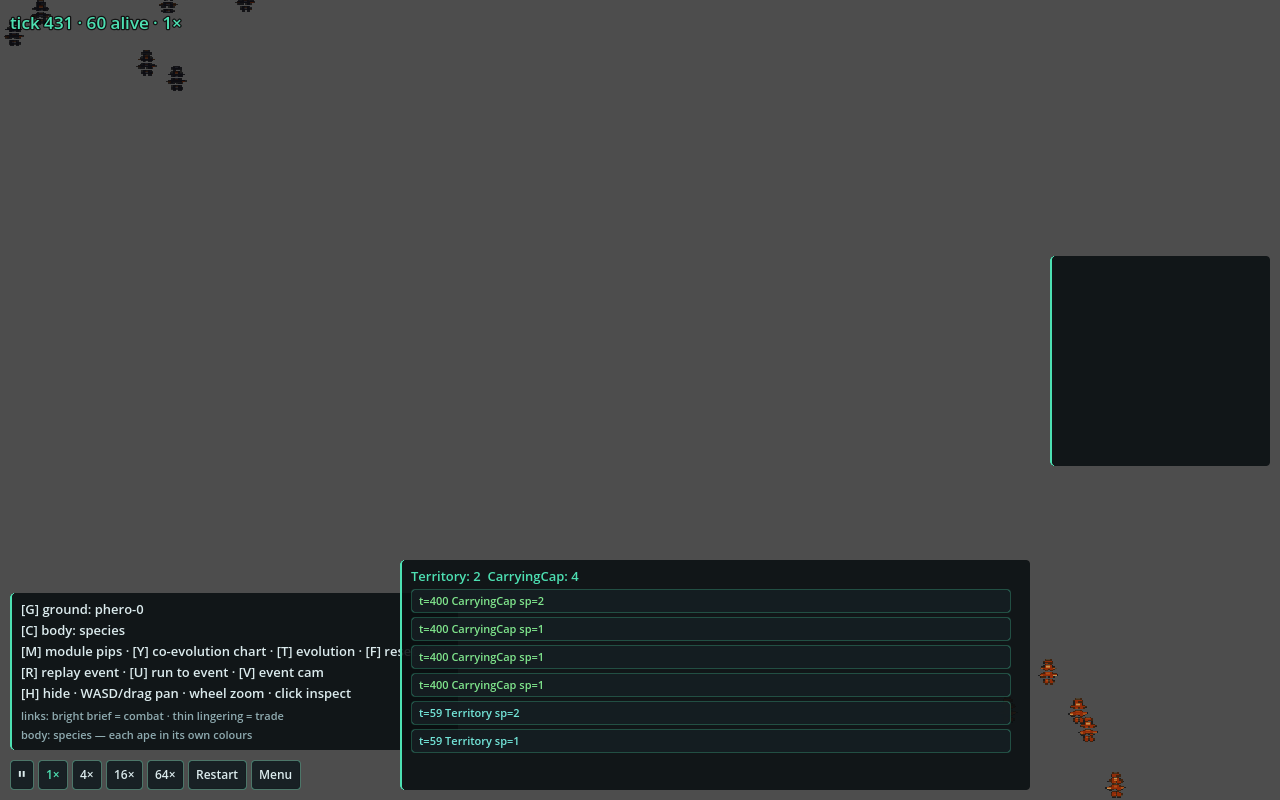
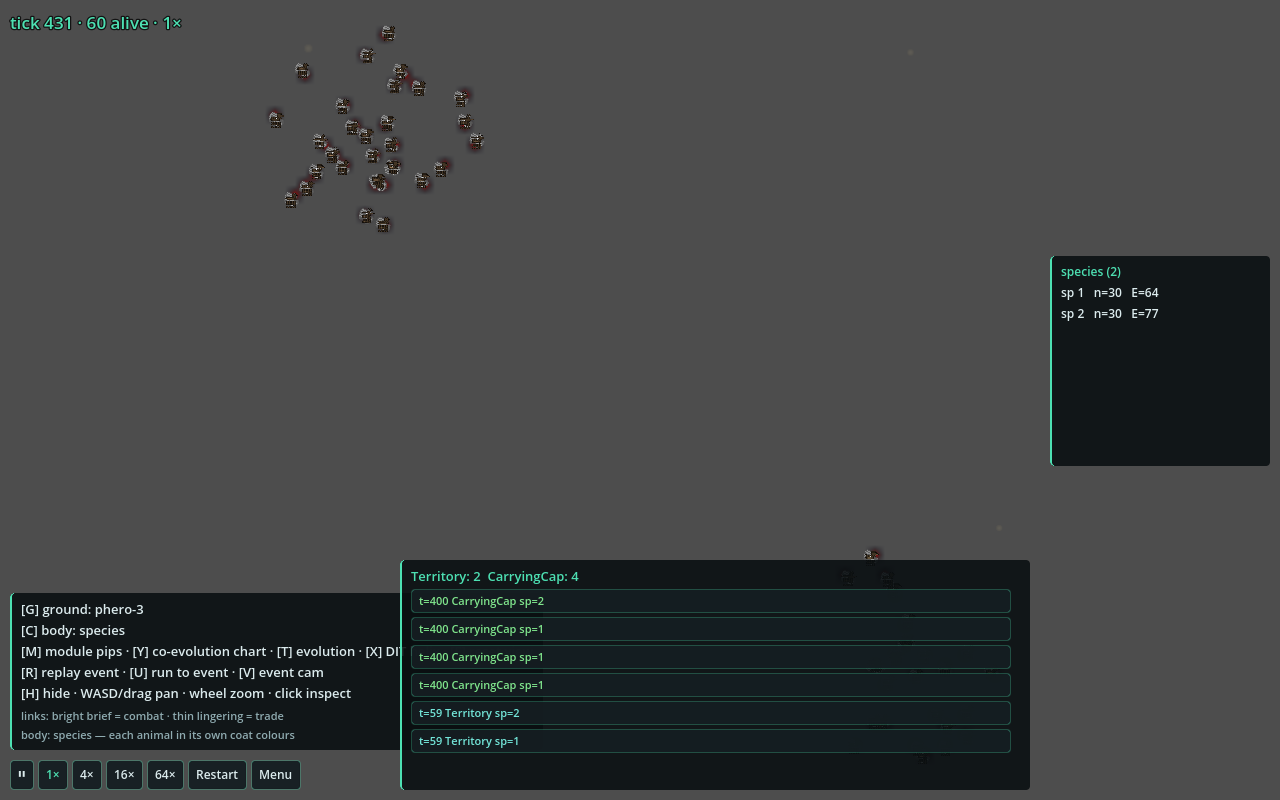
docs(gallery): recapture territories-t400-pher with mammals (scent on phero-3)
The two marker herds now render as animals; the territorial scent reads on the
phero-3 channel (ANABIOS_GROUND=4) as faint red halos — the current sim leaves
the old Marker channel (phero-0) empty, so the overlay channel moved.

diff --git a/gallery/README.md b/gallery/README.md
@@ -23,8 +23,11 @@ arena, gene-culture-hunt, and the E2 replay/event-camera) were recaptured after
 the viewer's quadruped mammal roster landed — grazers/stalkers/herds now render
 as Deer/Wolf/Hare/etc. by diet+size+role instead of hominins, and the body-mode
 legend reads "each animal in its own coat colours". Culture/DIT scenarios stay
-Primate (apes), so their stills are unchanged; `territories-t400-pher` keeps its
-prior still (a pheromone-overlay shot where the 60 agents are incidental).
+Primate (apes), so their stills are unchanged. `territories-t400-pher` was also
+recaptured with the mammal roster: the two marker herds now render as animals,
+and the territorial scent reads on the `phero-3` channel (`ANABIOS_GROUND=4`) as
+faint red halos — the current sim leaves the old Marker channel (`phero-0`)
+empty for this scenario, so the overlay channel moved.
 
 ## grand theater (all subsystems at once)
 
